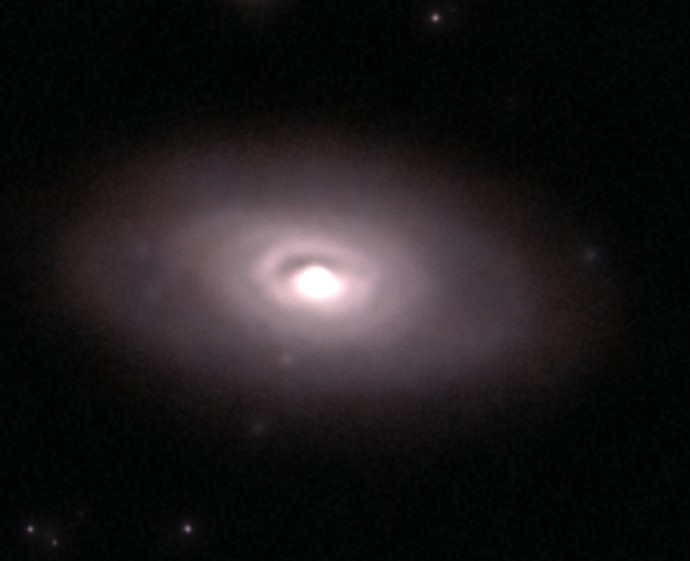
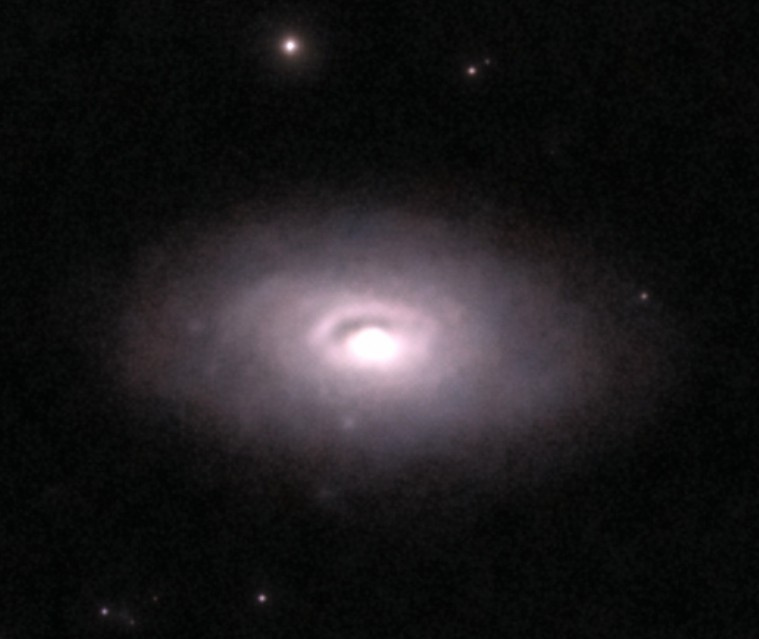
Add files via upload

diff --git a/astrofotos.html b/astrofotos.html
@@ -1091,20 +1091,20 @@ main { position: relative; z-index: 1; }
     </div>
   </article>
 
-  <!-- ===== M64 BLACK EYE (vidvinkel, 25. maj 2026 - 32 min) ===== -->
+  <!-- ===== M64 BLACK EYE (vidvinkel, 25. maj 2026 - 17 min) ===== -->
   <article class="photo-card" data-category="galakse">
     <div class="image-wrap">
       <span class="category-tag">Galakse</span>
-      <img src="m64-sortoje-vid-2026-05-25.png" alt="M64 Black Eye-galaksen med 32 minutters eksponering, 25. maj 2026">
+      <img src="m64-sortoje-vid-2026-05-25.png" alt="M64 Black Eye-galaksen med 17 minutters eksponering, 25. maj 2026">
     </div>
     <div class="info">
-      <div class="designation">M64 · 32 minutters eksponering</div>
+      <div class="designation">M64 · 17 minutters eksponering</div>
       <h2>Black Eye <em>med tålmodighed</em></h2>
-      <p class="description">Et nyt besøg hos M64 tre dage efter den første optagelse — denne gang med næsten ti gange så lang eksponering. Den ekstra tid trækker galaksens diffuse ydre skive frem som en svag halo omkring den lyse kerne, og det berømte mørke støvbånd står stadig tydeligt foran centrum. Selv om M64 ligner en almindelig spiralgalakse, gemmer den på en kosmisk hemmelighed: dens indre og ydre gas roterer i hver sin retning — et fossilt fingeraftryk efter en sammensmeltning med en mindre satellitgalakse for omkring en milliard år siden.</p>
+      <p class="description">Et nyt besøg hos M64 tre dage efter den første optagelse — denne gang med længere eksponering. Den ekstra tid trækker galaksens diffuse ydre skive frem som en svag halo omkring den lyse kerne, og det berømte mørke støvbånd står stadig tydeligt foran centrum. Selv om M64 ligner en almindelig spiralgalakse, gemmer den på en kosmisk hemmelighed: dens indre og ydre gas roterer i hver sin retning — et fossilt fingeraftryk efter en sammensmeltning med en mindre satellitgalakse for omkring en milliard år siden.</p>
       <div class="specs">
         <div><span class="label">Stjernebillede</span><span class="value">Berenikes Hår</span></div>
         <div><span class="label">Afstand</span><span class="value">~17 mio. lysår</span></div>
-        <div><span class="label">Eksponering</span><span class="value">32 minutter</span></div>
+        <div><span class="label">Eksponering</span><span class="value">17 minutter</span></div>
         <div><span class="label">Dato</span><span class="value">25. maj 2026</span></div>
       </div>
     </div>
@@ -1114,16 +1114,16 @@ main { position: relative; z-index: 1; }
   <article class="photo-card" data-category="galakse">
     <div class="image-wrap">
       <span class="category-tag">Galakse · Detalje</span>
-      <img src="m64-sortoje-naer-2026-05-25.png" alt="Tæt udsnit af M64 Black Eye-galaksen med 32 minutters eksponering, 25. maj 2026">
+      <img src="m64-sortoje-naer-2026-05-25.png" alt="Tæt udsnit af M64 Black Eye-galaksen med 17 minutters eksponering, 25. maj 2026">
     </div>
     <div class="info">
       <div class="designation">M64 · Detalje</div>
       <h2>Det <em>mørke øjenlåg</em></h2>
-      <p class="description">Tæt udsnit af den lange eksponering, hvor det karakteristiske mørke støvbånd nu fremstår som en sammenkrøllet skygge foran den glødende kerne. Båndet består af interstellart støv og kølig molekylgas — netop denne gas støder sammen med den modsat-roterende ydre gas og udløser områder med intens stjernedannelse langs grænsen. Med 32 minutters lyssamling kan man også ane den gråbrune ydre skive, der strækker sig langt ud til begge sider af galaksens lyse hjerte. Lyset, der ramte sensoren denne nat, forlod galaksen for omkring sytten millioner år siden (<span class="sci">~1,7 · 10<sup>7</sup> år</span>) — længe før mennesket eksisterede på Jorden.</p>
+      <p class="description">Tæt udsnit af den længere eksponering, hvor det karakteristiske mørke støvbånd nu fremstår som en sammenkrøllet skygge foran den glødende kerne. Båndet består af interstellart støv og kølig molekylgas — netop denne gas støder sammen med den modsat-roterende ydre gas og udløser områder med intens stjernedannelse langs grænsen. Med 17 minutters lyssamling kan man også ane den gråbrune ydre skive, der strækker sig langt ud til begge sider af galaksens lyse hjerte. Lyset, der ramte sensoren denne nat, forlod galaksen for omkring sytten millioner år siden (<span class="sci">~1,7 · 10<sup>7</sup> år</span>) — længe før mennesket eksisterede på Jorden.</p>
       <div class="specs">
         <div><span class="label">Type</span><span class="value">Udsnit</span></div>
         <div><span class="label">Struktur</span><span class="value">Mod-roterende skive</span></div>
-        <div><span class="label">Eksponering</span><span class="value">32 minutter</span></div>
+        <div><span class="label">Eksponering</span><span class="value">17 minutter</span></div>
         <div><span class="label">Dato</span><span class="value">25. maj 2026</span></div>
       </div>
     </div>

diff --git a/index.html b/index.html
@@ -815,12 +815,12 @@
             <article class="content-card">
                 <h3>Astrofotos</h3>
                 <a href="astrofotos.html">
-                    <img src="m94-vid-2026-05-20.jpg"
-                         alt="M94 – spiralgalakse i Jagthundene med dobbelt ringstruktur, fotograferet 20. maj 2026"
+                    <img src="m64-sortoje-vid-2026-05-25.png"
+                         alt="M64 – Black Eye-galaksen i Berenikes Hår med dens karakteristiske mørke støvbånd, fotograferet 25. maj 2026"
                          class="astro-thumb">
                 </a>
-                <p class="astro-meta">M94 · Spiralgalakse i Jagthundene · 20. maj 2026 · eVscope2 · 22 min eksponering</p>
-                <p>Mit seneste astrofoto: M94, en spiralgalakse ca. 16 mio. lysår væk med en karakteristisk indre starburst-ring omkring kernen. Optaget fra Marshøj ved 56°N 11°E sammen med nye optagelser af M100, NGC 6503 og M106.</p>
+                <p class="astro-meta">M64 · Black Eye-galaksen i Berenikes Hår · 25. maj 2026 · eVscope2 · 17 min eksponering</p>
+                <p>Mit seneste astrofoto: M64, Black Eye-galaksen ca. 17 mio. lysår væk med sit karakteristiske mørke støvbånd foran den lyse kerne. Galaksens indre og ydre gas roterer i hver sin retning — et fossilt spor af en sammensmeltning for omkring en milliard år siden. Optaget fra Marshøj ved 56°N 11°E.</p>
                 <div class="links-container">
                     <a href="astrofotos.html" class="nav-link">Se alle astrofotos →</a>
                 </div>
